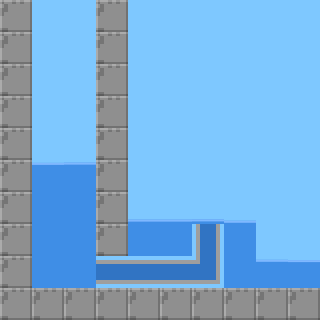
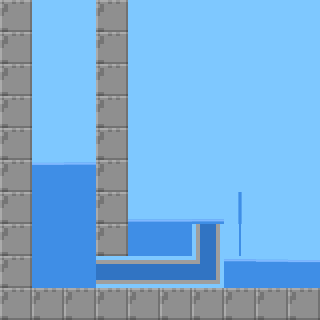
Falling water is drawn as a stream as wide as there is water, never as a full cell: a trickle looks like a trickle, and moving water is never drawn as more water than there is (#20)

Changed region(s): [[0.6875, 0.5938, 0.8125, 0.8125]]

diff --git a/js/blocks/water.js b/js/blocks/water.js
@@ -102,10 +102,12 @@ function fluidCells(world, blockInfo, turbineFlow) {
 export function refreshWater(world, blockInfo) {
   const turbineFlow = world.signals.water?.turbineFlow ?? new Map();
   // Work out afresh how much water to draw in each cell (see waterPicture).
+  const { shown, falling } = waterPicture(world, blockInfo);
   world.signals.water = {
     cells: fluidCells(world, blockInfo, turbineFlow),
     turbineFlow,
-    shown: waterPicture(world, blockInfo).shown,
+    shown,
+    falling,
   };
 }
 
@@ -130,9 +132,9 @@ export function waterSystem(world, blockInfo) {
   });
   // `wheels` is kept for the ⚙ pack: water flowing through a water wheel
   // turns it, and the energy the water gives up there is its strength.
+  const { shown, falling } = waterPicture(world, blockInfo, sides);
   world.signals.water = {
-    cells: fluidCells(world, blockInfo, turbineFlow), turbineFlow, waterOut, waterWork, wheels,
-    shown: waterPicture(world, blockInfo, sides).shown,
+    cells: fluidCells(world, blockInfo, turbineFlow), turbineFlow, waterOut, waterWork, wheels, shown, falling,
   };
   if (moved > MOVE_EPSILON) world.fluidChanged = true;
   const spinning = [...turbineFlow.values()].some((flow) => flow > MIN_AMOUNT);
@@ -337,6 +339,9 @@ function drawChiller(ctx, info, left, top, size) {
 /**
  * Draw all the water and steam, on top of the blocks. In open air,
  * water fills a cell from the bottom, and steam fills from the top.
+ * Water that is FALLING (the cell under it still has space) is drawn as
+ * a stream down the middle of the cell instead: as wide as there is
+ * water, so a trickle looks like a trickle and never like a full cell.
  * Inside pipes, valves, pumps and turbines it fills the channel, darker
  * when fuller.
  *
@@ -352,6 +357,7 @@ export function drawWaterLayer(ctx, world, size) {
   const { water, steam } = world.fluid;
   const records = world.signals.water?.cells ?? new Map();
   const shown = world.signals.water?.shown;
+  const falling = world.signals.water?.falling;
   for (let index = 0; index < world.cells.length; index++) {
     // How much water to draw here (before the first tick: just what's in the cell).
     const level = shown ? shown[index] : Math.min(water[index], FULL);
@@ -372,10 +378,21 @@ export function drawWaterLayer(ctx, world, size) {
     // shows just like in an empty cell.
     if (!showsWaterLevel(world.cells[index])) continue;
     if (wet) {
-      const height = size * Math.min(level, FULL);
+      // The water lying still: a pool across the cell, as deep as there is of it.
+      const amount = Math.min(level, FULL);
+      const share = falling ? falling[index] : 0; // how much of it is on its way down
+      const lying = amount * (1 - share);
+      const height = size * lying;
       ctx.fillStyle = WATER_COLOR;
-      ctx.fillRect(left, top + size - height, size, height);
-      if (height < size) {
+      if (height > 0) ctx.fillRect(left, top + size - height, size, height);
+      // The water falling: a stream down the middle, from the top of the
+      // cell to the pool, as wide as it takes to show all of it.
+      if (share > 0 && lying < FULL) {
+        // (Never thinner than the line on top of a pool, or a faucet's thread of water couldn't be seen.)
+        const wide = Math.min(size, Math.max(size / 16, 1, (size * amount * share) / (1 - lying)));
+        ctx.fillRect(left + (size - wide) / 2, top, wide, size - height);
+      }
+      if (height > 0 && height < size) {
         ctx.fillStyle = WATER_TOP;
         ctx.fillRect(left, top + size - height, size, Math.max(1, size / 16));
       }
@@ -466,7 +483,7 @@ const guide = {
   rules: [
     'Water and steam are real amounts: a cell can be full, half full or nearly empty. Water never appears or disappears by itself. Build a block in water and the water is pushed out of the way: the level goes UP. Only DIG and drains take water away.',
     'Water falls and spreads out. Deep water pushes UP through pipes and U-tubes.',
-    'Water is drawn as tall as there is water: pour 10 cells into a shaft and it stands 10 cells tall. One tap of DIG takes one scoop, a full cell at the most. You can\'t pour into a cell that already looks full: pour just above the water.',
+    'Water is drawn as tall as there is water: pour 10 cells into a shaft and it stands 10 cells tall. Falling water is a stream as wide as there is water: a trickle looks like a trickle. One tap of DIG takes one scoop, a full cell at the most. You can\'t pour into a cell that already looks full: pour just above the water.',
     'Steam is the opposite: it rises and spreads out under ceilings.',
     'Water has to FALL to give its push. High water can turn a wheel on its way down. Water lying level has no push left.',
     'Lifting water uses up a pump\'s push. The higher the water has to go, the slower the pump lifts it, and at some height it is too heavy and stops. More batteries lift higher AND faster: one battery lifts about 5 blocks.',

diff --git a/js/fluids.js b/js/fluids.js
@@ -332,6 +332,14 @@ export function showsWaterLevel(name) {
 const NEAR = 1;
 
 /**
+ * Water in an open cell is FALLING if the cell under it still has space
+ * for it. It is all falling when that cell is this far from full or
+ * further, and less and less of it counts as falling as that cell fills
+ * right up (so the picture never snaps from one look to the other).
+ */
+const FALL_RANGE = 0.05;
+
+/**
  * Work out how much water to DRAW in every cell, so that water LOOKS
  * as tall as the amount there really is.
  *
@@ -340,7 +348,11 @@ const NEAR = 1;
  * and a half cells. Real water doesn't squish: ten buckets stand ten
  * buckets tall. So the picture puts the squished-in extra back on top:
  *
- *   1. Every wet cell is drawn with what it holds, up to full.
+ *   1. Every wet cell is drawn with what it holds, up to full. Water
+ *      with room to fall into the cell below is marked as FALLING (a
+ *      thin stream from the top of the cell to the bottom, as wide as
+ *      there is water), so a waterfall reads as joined-up streams and
+ *      a trickle is never drawn as a cell full of water.
  *   2. The EXTRA in an over-full cell is drawn on top of the water that
  *      is squishing it: on its own column, and on the other surfaces of
  *      the same connected water that stand at the height that squishes
@@ -375,9 +387,11 @@ const NEAR = 1;
  * @param {object} world - the world
  * @param {Function} blockInfo - looks up what a block name means
  * @param {string[][]} [sides] - open sides by cell index (from allOpenSides), if already worked out
- * @returns {{shown: Float64Array, source: Int32Array}} `shown`: how much
- *   water to draw in each cell (0 to 1). `source`: for cells drawn with
- *   squished-in extra, the index of the real top cell it sits on; else −1
+ * @returns {{shown: Float64Array, source: Int32Array, falling: Float64Array}}
+ *   `shown`: how much water to draw in each cell (0 to 1). `source`: for
+ *   cells drawn with squished-in extra, the index of the real top cell it
+ *   sits on; else −1. `falling`: how much of a cell's drawn water is on
+ *   its way down (0 = it all lies still, 1 = it is all a falling stream)
  */
 export function waterPicture(world, blockInfo, sides = allOpenSides(world, blockInfo)) {
   const { width, height } = world;
@@ -385,6 +399,7 @@ export function waterPicture(world, blockInfo, sides = allOpenSides(world, block
   const size = water.length;
   const shown = new Float64Array(size);
   const source = new Int32Array(size).fill(-1);
+  const falling = new Float64Array(size);
   const pump = world.cells.map((name) => Boolean(blockInfo(name)?.fluid?.pump));
 
   /**
@@ -424,18 +439,19 @@ export function waterPicture(world, blockInfo, sides = allOpenSides(world, block
     if (!wet(index)) continue;
     if (water[index] > FULL) anyExtra = true;
     shown[index] = Math.min(water[index], FULL);
+    // Is it falling? In an open cell, yes, as long as the cell under it has space.
+    const below = joined(index, 'down');
+    if (below >= 0 && showsWaterLevel(world.cells[index])) falling[index] = clamp((FULL - water[below]) / FALL_RANGE, 0, 1);
     const above = joined(index, 'up');
     if (above >= 0 && wet(above)) {
       columnOf[index] = columnOf[above]; // rows go top to bottom, so the cell above is done
-      // A cell with water standing on it is drawn full, so a column reads as solid.
-      if (showsWaterLevel(world.cells[index])) shown[index] = FULL;
       continue;
     }
     columnOf[index] = columns.length;
     columns.push({ top: index, body: -1, surface: floorOf(index) + shown[index], lid: floorOf(index) + shown[index], room: [] });
   }
   // Nothing is squished (a puddle, a stream, a shallow pond): the plain picture is right.
-  if (!anyExtra) return { shown, source };
+  if (!anyExtra) return { shown, source, falling };
 
   // --- 2. Bodies. Wet cells that touch are one body of water.
   const bodyOf = new Int32Array(size).fill(-1);
@@ -692,7 +708,7 @@ export function waterPicture(world, blockInfo, sides = allOpenSides(world, block
       if (shown[index] > 0) source[index] = column.top;
     }
   }
-  return { shown, source };
+  return { shown, source, falling };
 }
 
 /**

diff --git a/tests/water-picture.test.js b/tests/water-picture.test.js
@@ -624,3 +624,77 @@ test('a tower joined by a pipe to an open spout: no water is drawn standing in t
     for (let x = 7; x < 15; x++) assert.equal(at(x, 7), 0, 'and nothing floats over the ground');
   }
 });
+
+// ---------------------------------------------------------------
+// Moving water: a trickle is drawn as a trickle
+// ---------------------------------------------------------------
+
+test('water falling off a ledge is never drawn as more water than there is', () => {
+  // Eight cells of water on a ledge, with a wide floor far below. While
+  // it falls there are thin streams in the air and a thin film on the
+  // floor under them. (Every cell with a trickle above it used to be
+  // drawn FULL: 8 cells of water were drawn as 13.)
+  const world = worldFrom([
+    '~~~~......',
+    '~~~~......',
+    '####......',
+    '..........',
+    '..........',
+    '..........',
+    '..........',
+    '#........#',
+    '##########',
+  ]);
+  for (let tick = 0; tick < 300; tick++) {
+    stepFluids(world, blockInfo);
+    const { shown, falling } = waterPicture(world, blockInfo);
+    assert.ok(total(shown) <= total(world.fluid.water) + 1e-9, `tick ${tick}: ${total(world.fluid.water)} cells of water, drawn as ${total(shown)}`);
+    // (While it is still rushing, a little squished-in water has no level surface to be drawn on yet.)
+    assert.ok(total(shown) >= total(world.fluid.water) - 0.3, `tick ${tick}: ${total(world.fluid.water)} cells of water, only ${total(shown)} drawn`);
+    falling.forEach((share) => assert.ok(share >= 0 && share <= 1));
+  }
+  // Once it lies still, nothing is falling.
+  assert.equal(total(waterPicture(world, blockInfo).falling), 0);
+});
+
+test('a trickle falling onto a puddle: the trickle is marked as falling, the puddle under it is drawn as deep as it is', () => {
+  const world = worldFrom([
+    '#...#',
+    '#...#',
+    '#...#',
+    '#####',
+  ]);
+  setFluid(world, 'water', 2, 0, 0.1); // a trickle in mid-air...
+  setFluid(world, 'water', 2, 1, 0.1);
+  for (const x of [1, 2, 3]) setFluid(world, 'water', x, 2, 0.2); // ...over a shallow puddle
+  const { shown, falling } = waterPicture(world, blockInfo);
+  assert.ok(Math.abs(shown[2 * 5 + 2] - 0.2) < 1e-9, `the puddle under the trickle is drawn ${shown[2 * 5 + 2]} deep`);
+  assert.equal(falling[2 * 5 + 2], 0, 'the puddle lies on the floor');
+  assert.ok(Math.abs(shown[1 * 5 + 2] - 0.1) < 1e-9 && Math.abs(shown[2] - 0.1) < 1e-9, 'the trickle is drawn with what it holds');
+  assert.equal(falling[1 * 5 + 2], 1, 'the trickle is falling: the cell under it is far from full');
+  assert.equal(falling[2], 1);
+  assert.ok(Math.abs(total(shown) - total(world.fluid.water)) < 1e-9);
+});
+
+test('water lying on full water is not falling: a settled deep column has no streams in it', () => {
+  const world = shaft(10);
+  run(world, 400);
+  const { falling } = waterPicture(world, blockInfo);
+  assert.equal(total(falling), 0);
+});
+
+test('falling and lying change over smoothly: the fuller the cell below, the less of the water above counts as falling', () => {
+  const shares = [0, 0.5, 0.9, 0.96, 0.98, 0.99, 1, 1.2].map((below) => {
+    const world = worldFrom(['#.#', '#.#', '###']);
+    setFluid(world, 'water', 1, 0, 0.3);
+    setFluid(world, 'water', 1, 1, below);
+    return waterPicture(world, blockInfo).falling[1];
+  });
+  assert.equal(shares[0], 1, 'over an empty cell it is all falling');
+  assert.equal(shares[1], 1);
+  assert.equal(shares[2], 1);
+  for (let k = 3; k < shares.length; k++) assert.ok(shares[k] <= shares[k - 1], `shares ${shares.join(' ')}`);
+  assert.ok(shares[4] > 0 && shares[4] < 1, `part falling, part lying: ${shares[4]}`);
+  assert.equal(shares[6], 0);
+  assert.equal(shares[7], 0);
+});

diff --git a/tests/water.test.js b/tests/water.test.js
@@ -200,3 +200,37 @@ test('turbines side by side in their own chimneys each keep all the push of thei
   assert.ok(Math.abs(turbinePush(world, 2, 2) - one) < 0.1, `left pushes ${turbinePush(world, 2, 2)}, one alone ${one}`);
   assert.ok(Math.abs(turbinePush(world, 4, 2) - turbinePush(world, 2, 2)) < 1e-9);
 });
+
+test('falling water is drawn as a stream as wide as there is water; lying water as a pool as deep as there is water', () => {
+  const world = createWorld(3, 1);
+  const shown = new Float64Array([0.25, 0.25, 0.4]);
+  const falling = new Float64Array([1, 0, 0.5]);
+  world.signals.water = { cells: new Map(), shown, falling };
+  const blue = [];
+  const ctx = {
+    fillStyle: '',
+    globalAlpha: 1,
+    fillRect(...args) { if (String(ctx.fillStyle).startsWith('rgba(47')) blue.push(args); },
+  };
+  water.drawLayer(ctx, world, 40);
+  /**
+   * The blue rectangles drawn in one cell.
+   * @param {number} x - the cell's column
+   * @returns {number[][]} their [left, top, width, height]
+   */
+  const inCell = (x) => blue.filter(([left]) => left >= x * 40 && left < (x + 1) * 40);
+  /**
+   * How much blue was painted in one cell, as a share of the cell.
+   * @param {number} x - the cell's column
+   * @returns {number} 0 to 1
+   */
+  const painted = (x) => inCell(x).reduce((sum, [, , width, height]) => sum + width * height, 0) / 1600;
+  // All falling: one stream from the top of the cell to the bottom, in the middle, a quarter of a cell wide.
+  assert.deepEqual(inCell(0), [[15, 0, 10, 40]]);
+  // All lying: a pool across the cell, a quarter of a cell deep.
+  assert.deepEqual(inCell(1), [[40, 30, 40, 10]]);
+  // Half and half: a shallow pool with a stream coming down onto it.
+  assert.equal(inCell(2).length, 2);
+  // And always as much blue as there is water.
+  for (const x of [0, 1, 2]) assert.ok(Math.abs(painted(x) - shown[x]) < 1e-9, `cell ${x}: ${painted(x)} painted for ${shown[x]} of water`);
+});

diff --git a/docs/superpowers/specs/2026-10-02-fluids-pack-design.md b/docs/superpowers/specs/2026-10-02-fluids-pack-design.md
@@ -354,3 +354,15 @@ A settled water tower joined by a pipe to an open spout one cell up (`#~~#......
 - Result: that scene is drawn level at 2.0 in the tower, the pool and the mouth, with nothing over the mouth and nothing over the ground (mirrored too); 17.40 of its 18.00 cells are drawn. The missing 0.6 is squished in below the brim: the same leftover as under a lid ("looks full, holds a bit more"), now also at a brim.
 - Cost, measured on the 300 random settled stone-and-pipe tanks of the round 1 addendum: 10 are under-drawn by more than half a cell (13.7 cells in all; was 1 and 1.1), none over-drawn. Every one looked at is a pool that is full to a rim it would spill over, with more squished in below; before, that extra was drawn as a slab standing over the rim and over the empty space beside it.
 
+
+## Addendum 2026-10-04 (round 2 review): falling water is drawn as a stream, never as a full cell (issue #20 review)
+
+Rule 1 of the drawing kept the old look "a cell with water standing on it is drawn full". While water moves, that drew every cell under a trickle as a full cell: a 3×8 block of 24 cells let go in a tank was drawn as 29.35 at tick 1; a tower emptying through a spout was drawn as 20.06 for 18.00 (tick 40), with a solid 2-cell block of blue beside the riser holding 0.21 cells; 8 cells falling off a ledge were drawn as 13.02.
+
+- `waterPicture` no longer fills a cell because there is water above it: every wet cell's `shown` is `min(amount, 1)` (plus any extra put back on a surface, as before).
+- It also returns `falling` (0 to 1 for each cell): for water in an open cell (air or rope) with an open cell or block below, `(1 − amount below) ÷ FALL_RANGE` (0.05), kept between 0 and 1. So water over a cell with room in it is falling, water on a full cell or on a floor lies still, and the change-over is smooth (a cell hovering at "full" can't make the picture snap).
+- `drawWaterLayer` draws the lying share as before (a pool across the cell, `shown × (1 − falling)` deep, with its surface line) and the falling share as a stream down the middle of the cell, from the top of the cell to the pool, as wide as it takes to paint exactly that share of the cell. A stream is never drawn thinner than 1⁄16 of a cell (the surface line's thickness) so a faucet's thread can be seen; that is the only place a little more blue is painted than there is water.
+- A moving column can now show hairline gaps for a moment (a cell at 0.97 under a full one). That is what is there.
+- Result (drawn total against real, at every tick): never over, in all five scenes tried (was up to +5.35 cells of 24). 24-cell block in a tank: 23.47 at tick 1, 22.35 at tick 5, 24.00 from tick 24. Tower through a spout: 17.12 at tick 40 for 18.00. Ledge: 7.78 at tick 1, 8.00 from tick 10. What is missing while it rushes is squished-in water with no level surface to be drawn on yet, as documented above.
+- Machine pictures taken again: hydro-dam, power-plant, water-tower.
+

diff --git a/wiki/Water.md b/wiki/Water.md
@@ -5,7 +5,8 @@ like dropping a stone in a full glass. (Pipes, valves, wheels, pumps and rope
 just keep the water that was there.) Only DIG and drains take water away.
 
 **Water looks as tall as it is.** Pour 10 cells of water into a shaft and it
-stands 10 cells tall. One tap of DIG takes **one scoop**: a full cell at the
+stands 10 cells tall. Falling water is drawn as a stream, as wide as there is
+water: a faucet's trickle is a thin thread, a waterfall a thick one. One tap of DIG takes **one scoop**: a full cell at the
 most. You can't pour into a cell that already looks full, so pour just above
 the water. (Inside the game, deep water is really *squished* into fewer cells:
 that squish is how the game makes water push up a U-tube. The picture puts the
